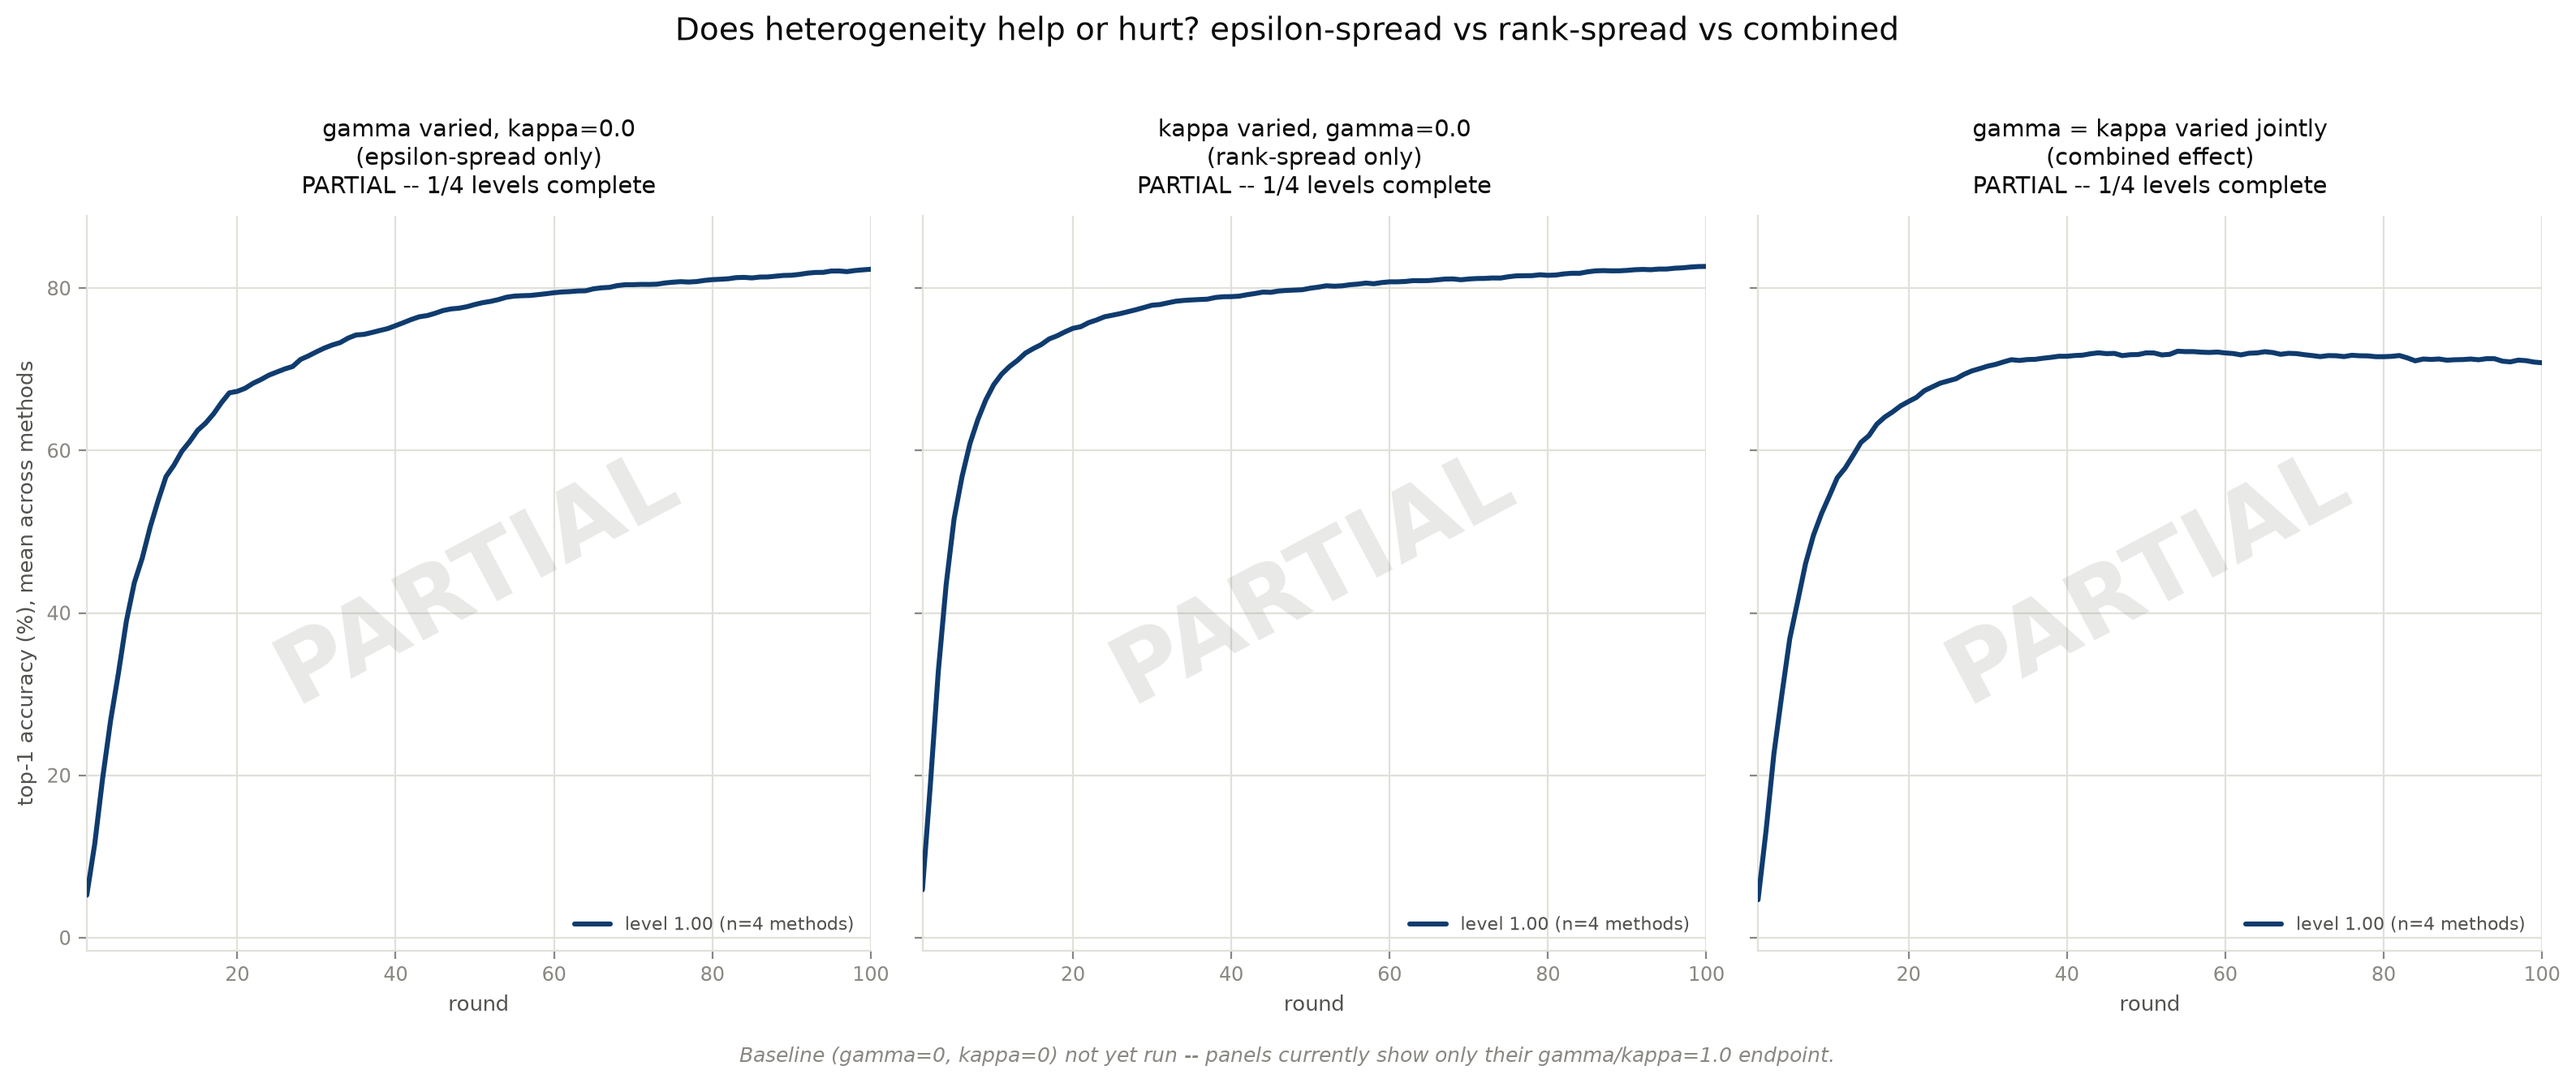
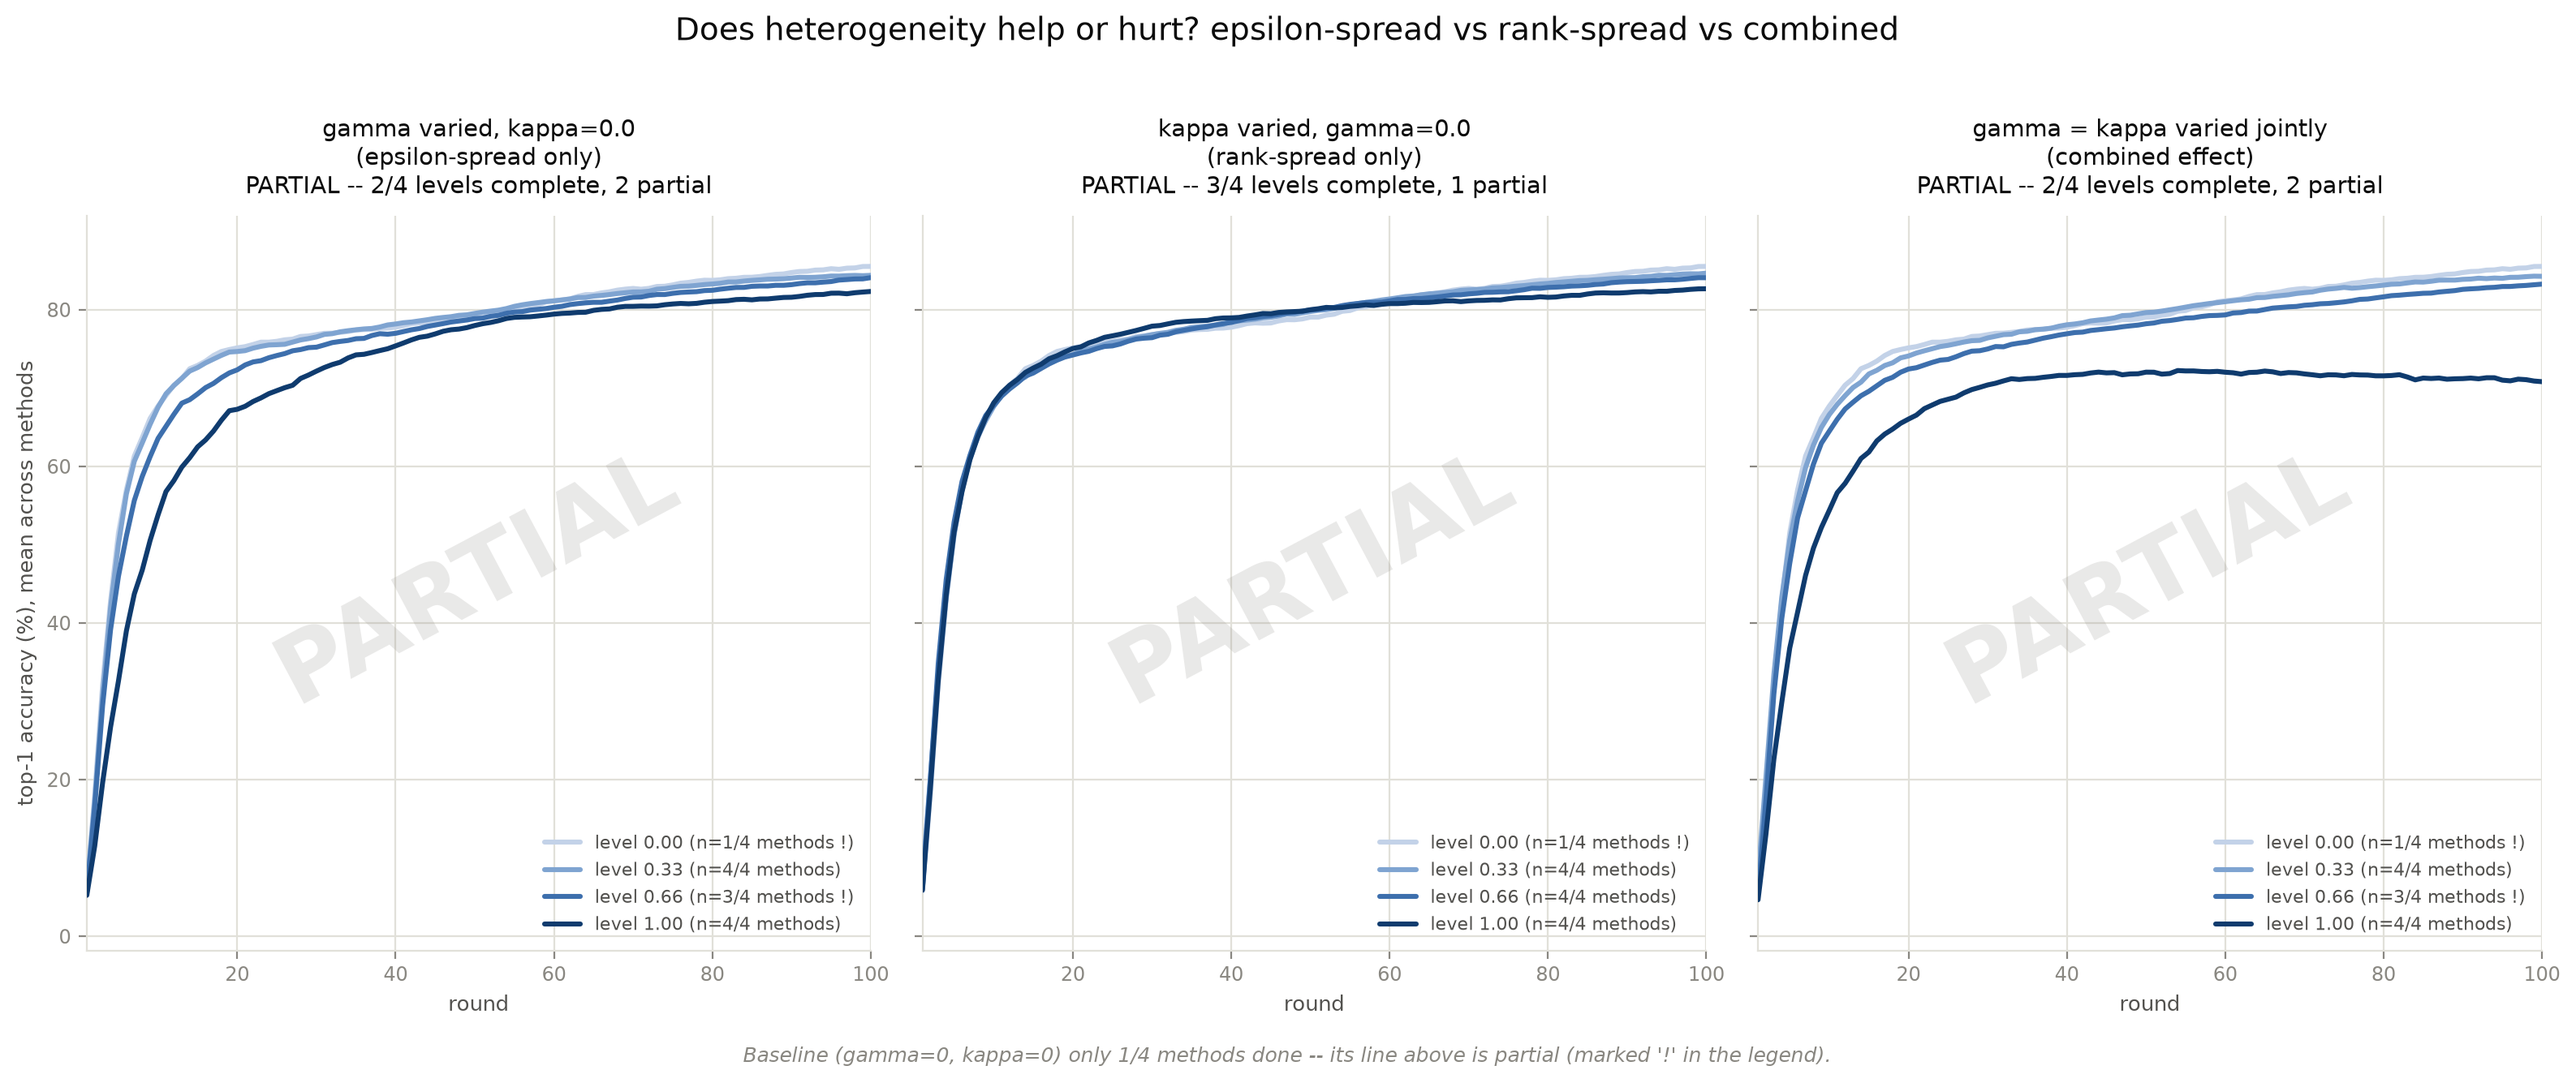
plot

diff --git a/plotting/plot_heterogeneity_composite.py b/plotting/plot_heterogeneity_composite.py
@@ -58,6 +58,9 @@ PANELS = [
 ]
 
 
+EXPECTED_METHODS = 4  # GRID_METHODS: rblora, hetlora, flora, flexlora
+
+
 def load_cell(gamma: float, kappa: float) -> tuple[list[int], list[float], int] | None:
     cell_dir = RESULTS_ROOT / f"gamma{gamma}_kappa{kappa}"
     if not cell_dir.exists():
@@ -108,17 +111,21 @@ def main() -> None:
     fig, axes = plt.subplots(1, 3, figsize=(16, 6.2), sharey=True)
 
     for ax, (title, _), levels_data in zip(axes, PANELS, panel_data):
-        completed = sum(1 for c in levels_data.values() if c is not None)
+        fully_complete = sum(1 for c in levels_data.values() if c is not None and c[2] == EXPECTED_METHODS)
+        partial = sum(1 for c in levels_data.values() if c is not None and c[2] < EXPECTED_METHODS)
         for lvl in LEVELS:
             cell = levels_data[lvl]
             if cell is None:
                 continue
             rounds, means, n_methods = cell
+            flag = "" if n_methods == EXPECTED_METHODS else " !"
             ax.plot(rounds, means, linewidth=2.2, color=LEVEL_COLORS[lvl], solid_capstyle="round",
-                     zorder=3, label=f"level {lvl:.2f} (n={n_methods} methods)")
+                     zorder=3, label=f"level {lvl:.2f} (n={n_methods}/{EXPECTED_METHODS} methods{flag})")
 
-        subtitle = f"{completed}/4 levels complete"
-        if completed < len(LEVELS):
+        subtitle = f"{fully_complete}/4 levels complete"
+        if partial:
+            subtitle += f", {partial} partial"
+        if fully_complete < len(LEVELS):
             subtitle = "PARTIAL -- " + subtitle
             ax.text(0.5, 0.5, "PARTIAL", transform=ax.transAxes, fontsize=42, color=MUTED,
                      alpha=0.18, ha="center", va="center", rotation=28, zorder=1, weight="bold")
@@ -140,9 +147,14 @@ def main() -> None:
 
     fig.suptitle("Does heterogeneity help or hurt? epsilon-spread vs rank-spread vs combined",
                  fontsize=14, color=INK, y=1.02)
-    fig.text(0.5, -0.02,
-              "Baseline (gamma=0, kappa=0) not yet run -- panels currently show only their gamma/kappa=1.0 endpoint.",
-              ha="center", fontsize=9, color=MUTED, style="italic")
+    baseline = load_cell(0.0, 0.0)
+    if baseline is None:
+        footer = "Baseline (gamma=0, kappa=0) not yet run."
+    elif baseline[2] < EXPECTED_METHODS:
+        footer = f"Baseline (gamma=0, kappa=0) only {baseline[2]}/{EXPECTED_METHODS} methods done -- its line above is partial (marked '!' in the legend)."
+    else:
+        footer = "Lines marked '!' in the legend are missing one or more methods -- treat those means as provisional."
+    fig.text(0.5, -0.02, footer, ha="center", fontsize=9, color=MUTED, style="italic")
 
     fig.tight_layout()
     output_path = Path(args.output)
